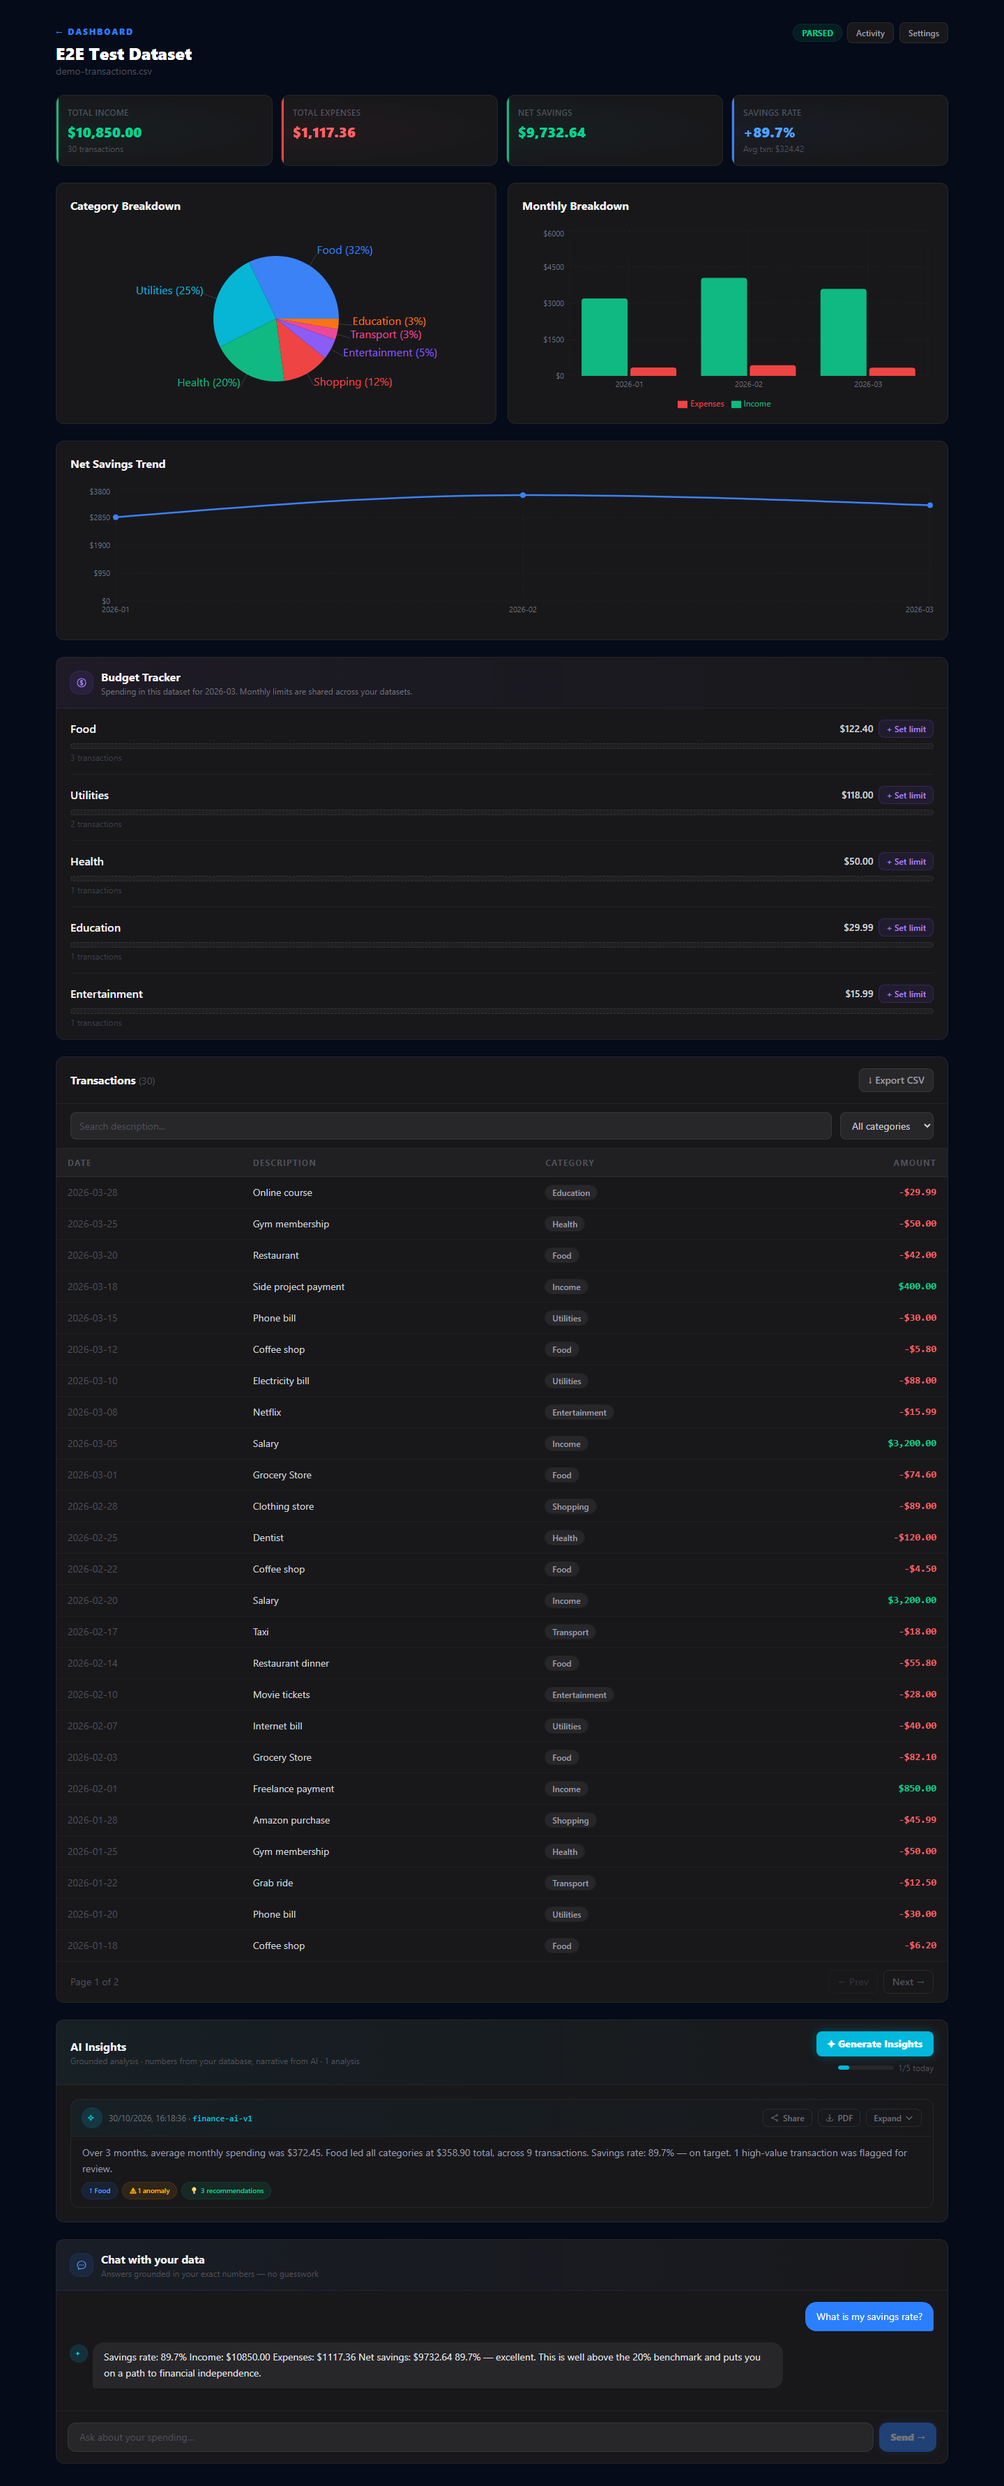
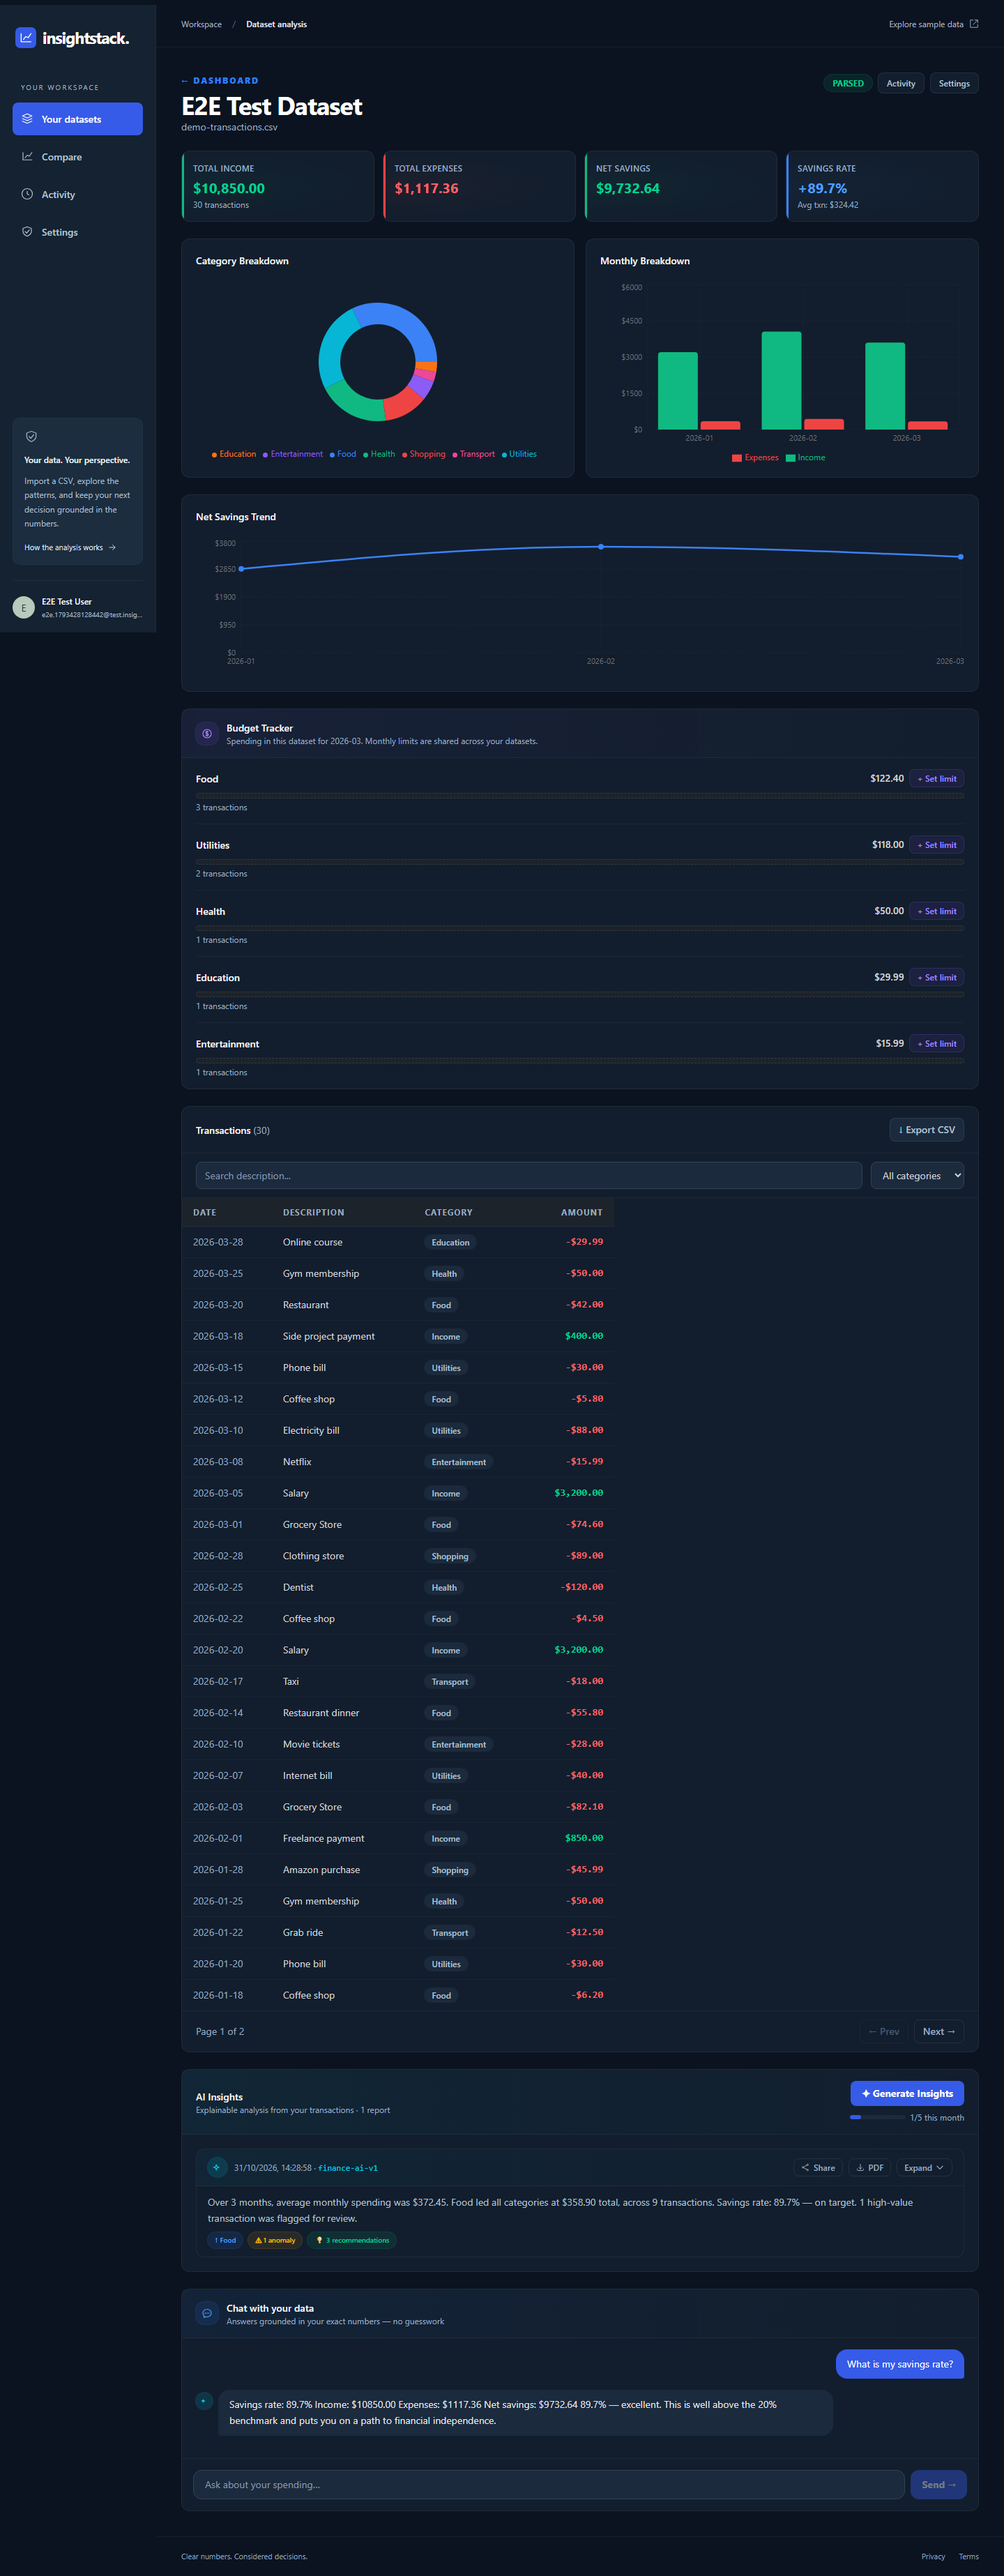
Finish mobile transaction layout and isolate browser test traffic

diff --git a/src/app/dashboard/datasets/[id]/page.tsx b/src/app/dashboard/datasets/[id]/page.tsx
@@ -1134,8 +1134,8 @@ function DatasetDetailContent({ id }: { id: string }) {
                   {search || categoryFilter ? "No transactions match your filter." : "No transactions yet. Upload a CSV from the dashboard."}
                 </div>
               ) : (
-                <div className="overflow-x-auto">
-                  <table className="min-w-full text-sm">
+                <div className="overflow-x-auto" role="region" aria-label="Transactions, scroll horizontally on smaller screens" tabIndex={0}>
+                  <table className="transaction-table min-w-full text-sm">
                     <thead>
                       <tr className="border-b border-white/5 bg-zinc-800/50 text-left text-xs font-bold uppercase tracking-widest text-zinc-600">
                         <th className="px-4 py-3">Date</th>

diff --git a/src/app/workspace.css b/src/app/workspace.css
@@ -252,6 +252,18 @@
 .workspace-content input {
   min-width: 0;
 }
+.workspace-content .transaction-table {
+  min-width: 620px;
+  overflow-wrap: normal;
+}
+.workspace-content .transaction-table th,
+.workspace-content .transaction-table td:last-child,
+.workspace-content .transaction-table td:nth-child(3) {
+  white-space: nowrap;
+}
+.workspace-content .recharts-tooltip-wrapper[style*="visibility: hidden"] {
+  display: none;
+}
 .workspace-content .flex > * {
   min-width: 0;
 }
